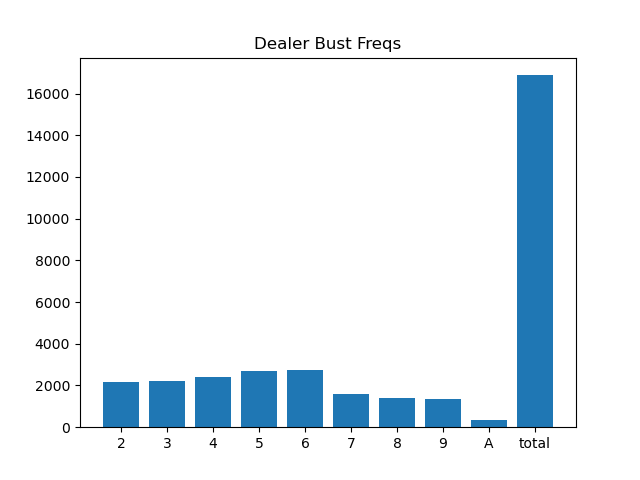
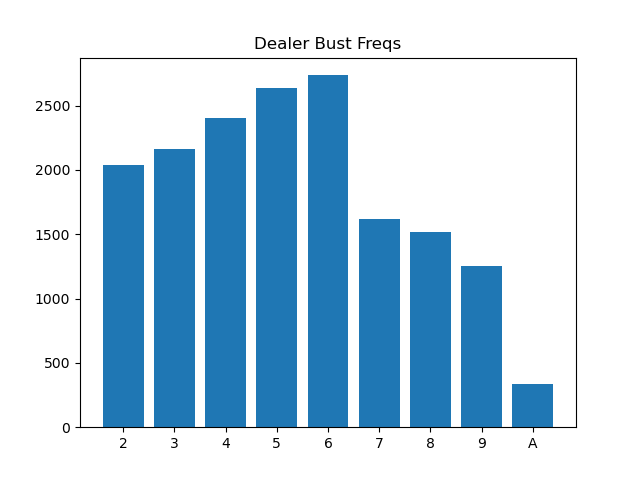
Added dealer card freqs to calc_busts.py

diff --git a/calc_busts.py b/calc_busts.py
@@ -87,11 +87,11 @@ def optimal_strat_nofaces():
             if total_value(dealer) != 21:
                 if not HIDE_OUTPUT: 
                     print("Blackjack! Player wins!\n")
-                return 2
+                return 2, dealer.hand[0].get_rank()
             else:
                 if not HIDE_OUTPUT: 
                     print("Tie!\n")
-                return 1
+                return 1, dealer.hand[0].get_rank()
         if decision_maker(total_value(player), known_dealer_score, is_hard):
             if not HIDE_OUTPUT:
                 print("PLAYER HIT")
@@ -101,15 +101,15 @@ def optimal_strat_nofaces():
                 if total_value(dealer) == 21:
                     if not HIDE_OUTPUT: 
                         print("Tie!\n")
-                    return 1
+                    return 1, dealer.hand[0].get_rank()
                 else:
                     if not HIDE_OUTPUT: 
                         print("Blackjack! Player wins!\n")
-                    return 2
+                    return 2, dealer.hand[0].get_rank()
             elif total_value(player) > 21:
                 if not HIDE_OUTPUT: 
                     print("Player bust! Player loses!\n")
-                return 0
+                return 0, dealer.hand[0].get_rank()
         else:
             if not HIDE_OUTPUT:
                 print("PLAYER STAND")
@@ -120,11 +120,11 @@ def optimal_strat_nofaces():
                 if total_value(dealer) == total_value(player):
                     if not HIDE_OUTPUT: 
                         print("Tie!\n")
-                    return 1
+                    return 1, dealer.hand[0].get_rank()
                 elif total_value(dealer) == 21:
                     if not HIDE_OUTPUT: 
                         print("Player loses!\n")
-                    return 0
+                    return 0, dealer.hand[0].get_rank()
                 elif total_value(dealer) > 21:
                     if not HIDE_OUTPUT: 
                         print("Dealer bust! Player wins!\n")
@@ -132,21 +132,21 @@ def optimal_strat_nofaces():
                 elif total_value(dealer) > total_value(player):
                     if not HIDE_OUTPUT: 
                         print("Player loses!\n")
-                    return 0
+                    return 0, dealer.hand[0].get_rank()
                 else:
                     if not HIDE_OUTPUT: 
                         print("Player wins!\n")
-                    return 2
+                    return 2, dealer.hand[0].get_rank()
             else:
                 dealer_open(dealer)
                 if total_value(dealer) == total_value(player):
                     if not HIDE_OUTPUT: 
                         print("Tie!\n")
-                    return 1
+                    return 1, dealer.hand[0].get_rank()
                 if total_value(dealer) == 21:
                     if not HIDE_OUTPUT: 
                         print("Player loses!\n")
-                    return 0
+                    return 0, dealer.hand[0].get_rank()
                 if total_value(dealer) > 21:
                     if not HIDE_OUTPUT: 
                         print("Dealer bust! Player wins!\n")
@@ -154,11 +154,11 @@ def optimal_strat_nofaces():
                 if total_value(dealer) > total_value(player):
                     if not HIDE_OUTPUT: 
                         print("Player loses!\n")
-                    return 0
+                    return 0, dealer.hand[0].get_rank()
                 else:
                     if not HIDE_OUTPUT: 
                         print("Player wins!\n")
-                    return 2
+                    return 2, dealer.hand[0].get_rank()
 
 def run_optimal(trials: int) -> dict:
     stats_dict: dict
@@ -166,33 +166,38 @@ def run_optimal(trials: int) -> dict:
     thresh_max: int
     res: int # 0 -> lose, 1 -> draw, 2 -> win
 
-    stats_dict = {'lose': 0, 'draw': 0, 'win': 0, 'dealer_bust': []}
+    stats_dict = {'lose': 0, 'draw': 0, 'win': 0, 'dealer_bust': [], 'dealer_card_freqs': []}
     thresh_min, thresh_max = 2, 20
     for trial in range(trials):
         if (trial % 10000 == 0):
             print(trial)
         res = optimal_strat_nofaces()
-        if res == 0:
+        if res[0] == 0:
             stats_dict['lose'] += 1
-        elif res == 1:
+        elif res[0] == 1:
             stats_dict['draw'] += 1
-        elif res == 2:
+        elif res[0] == 2:
             stats_dict['win'] += 1
         elif res[0] == 4: # dealer busted
             stats_dict['dealer_bust'] += res[1]
 
+        # Add dealer's starting card frequencies
+        stats_dict['dealer_card_freqs'] += res[1]
+
+    stats_dict['dealer_bust'] = clean_data(sorted(stats_dict['dealer_bust']))
+    stats_dict['dealer_card_freqs'] = clean_data(sorted(stats_dict['dealer_card_freqs']))
+    
     print(stats_dict)
     return stats_dict
 
-# Do not ask why I have to sanitize the output like this b/c I don't know why either
+# Do not ask why I have to sanitize the output like this just trust 
 def clean_data(bust_lst: list):
     remove_these = ['a', 'c', 'e', 'k', 'n', 'u','g', 'i', '0', '1']
     for item in remove_these:
         bust_lst = list(filter((item).__ne__, bust_lst))
     return bust_lst
 
-
-""" Returns plt object """
+""" Returns plt object and sanitized stats_dict """
 def graph_data(trials: int, stats_dict: dict, fname: str) -> plt:
     y_ticks: int
     if trials > 10:
@@ -201,25 +206,29 @@ def graph_data(trials: int, stats_dict: dict, fname: str) -> plt:
         y_ticks = range(0, 10)
 
     fig, ax = plt.subplots()
-    # statuses = ['losses', 'draws', 'wins']
-    # freqs = [stats_dict['lose'], stats_dict['draw'], stats_dict['win']]
-    stats_dict['dealer_bust'] = clean_data(sorted(stats_dict['dealer_bust']))
+    # JFC what the hell am I doing
     bust_lst = stats_dict['dealer_bust']
     dealer_cards_when_dealer_bust = collections.Counter(bust_lst)
-    
+        
     bust_sum = sum(dealer_cards_when_dealer_bust.values())
 
     # Sanitize stats_dict output to contain the frequences
     stats_dict['dealer_bust'] = dealer_cards_when_dealer_bust
-    # Add the total number of dealer busts to make calculating probabilities easier
-    stats_dict['dealer_bust']['total'] = bust_sum
     rank_names = dealer_cards_when_dealer_bust.keys()
     rank_freqs = dealer_cards_when_dealer_bust.values()
     ax.bar(rank_names, rank_freqs)
+
     plt.title(f"Dealer Bust Freqs")
     ax.set_xticklabels((list(rank_names)))
     output_fname = f"{SAVE_DIR}/{fname}"
     plt.savefig(output_fname)
+    
+    stats_dict['dealer_card_freqs'] = collections.Counter(stats_dict['dealer_card_freqs'])
+    freq_sum = sum(stats_dict['dealer_card_freqs'].values())
+    stats_dict['dealer_card_freqs']['total'] = freq_sum
+
+    # Add the total number of dealer busts to make calculating probabilities easier
+    stats_dict['dealer_bust']['total'] = bust_sum
     print(f"Saved graph to {output_fname}")
     return plt, stats_dict
 
